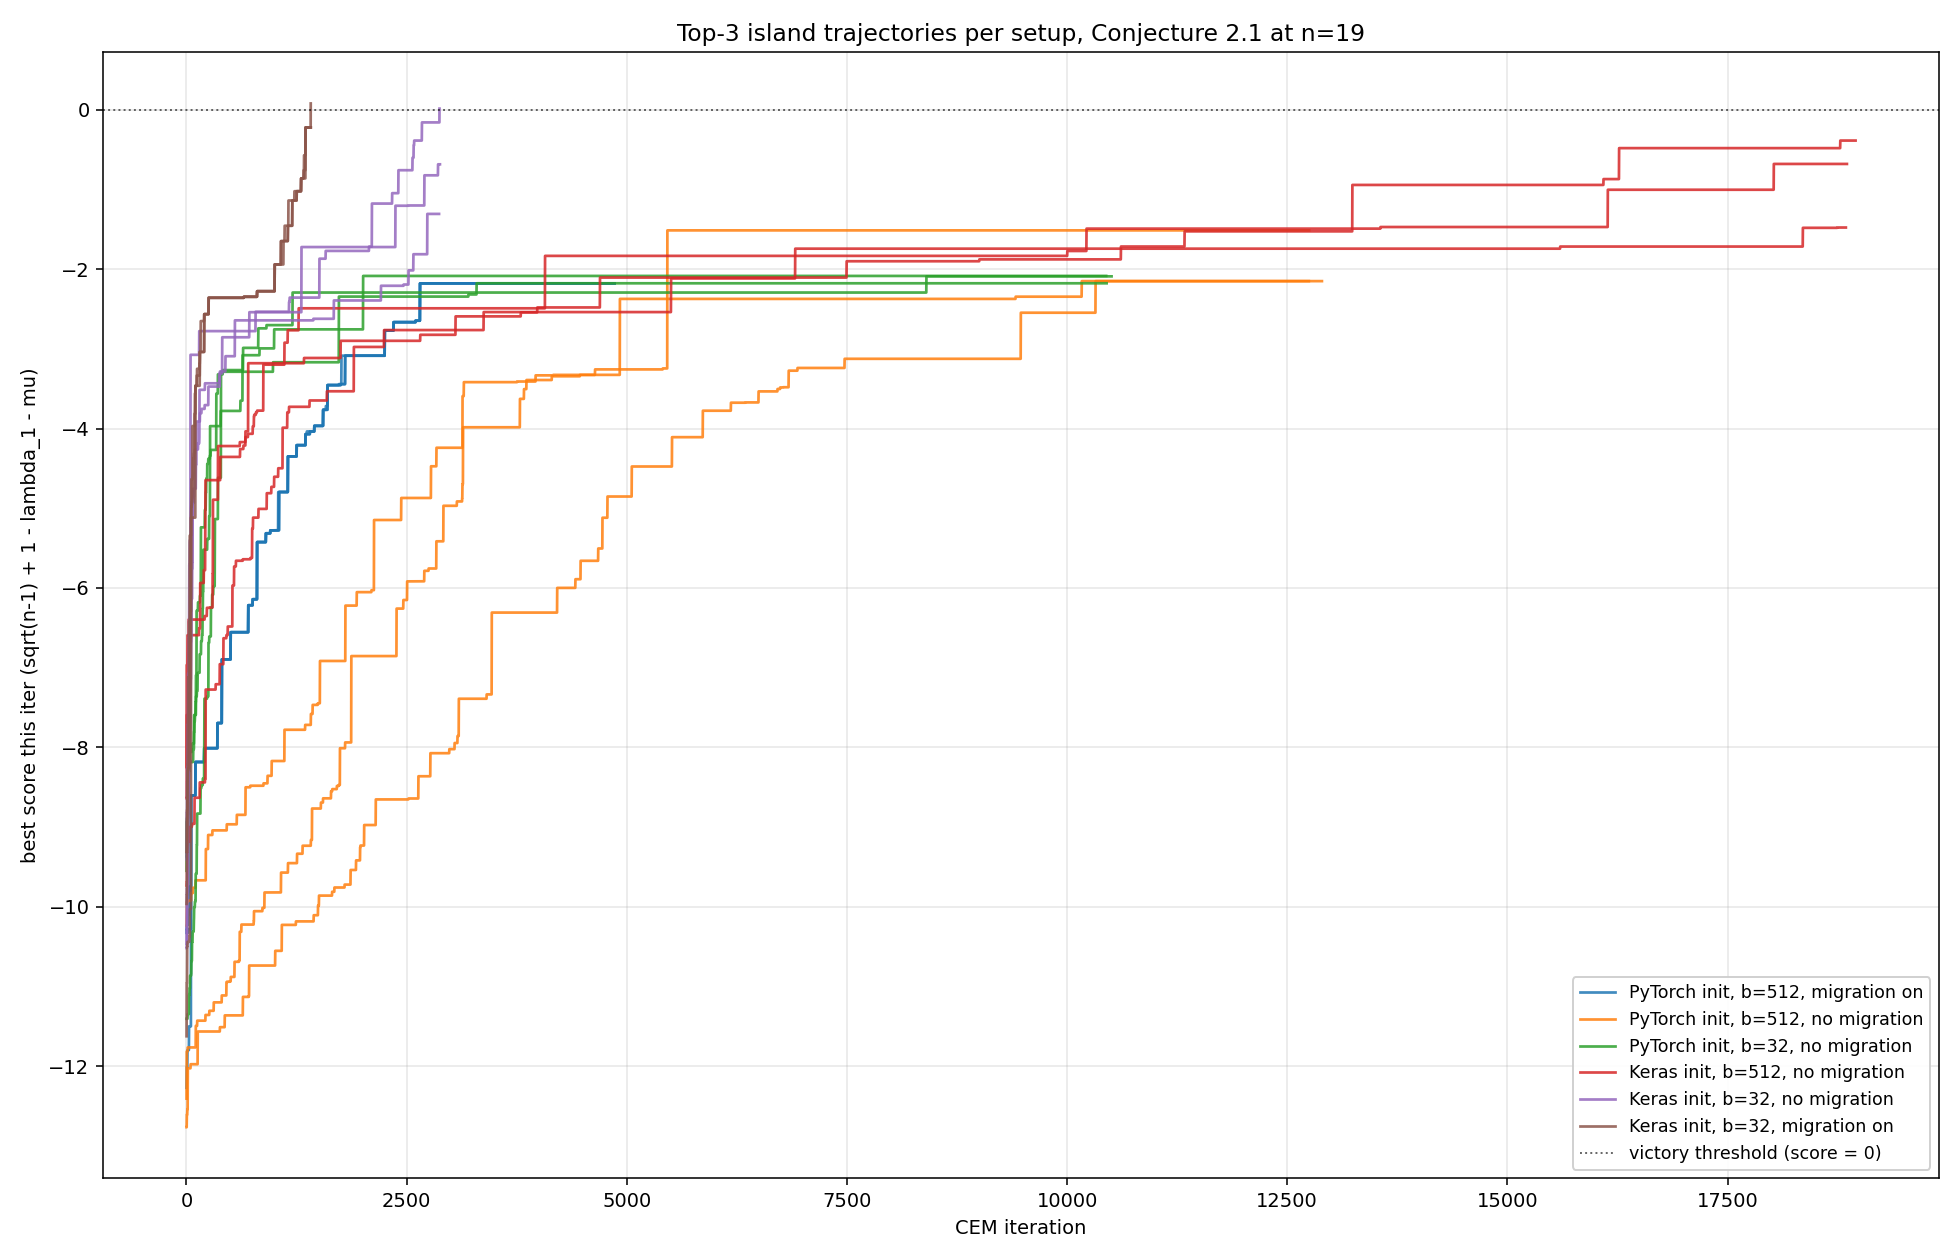
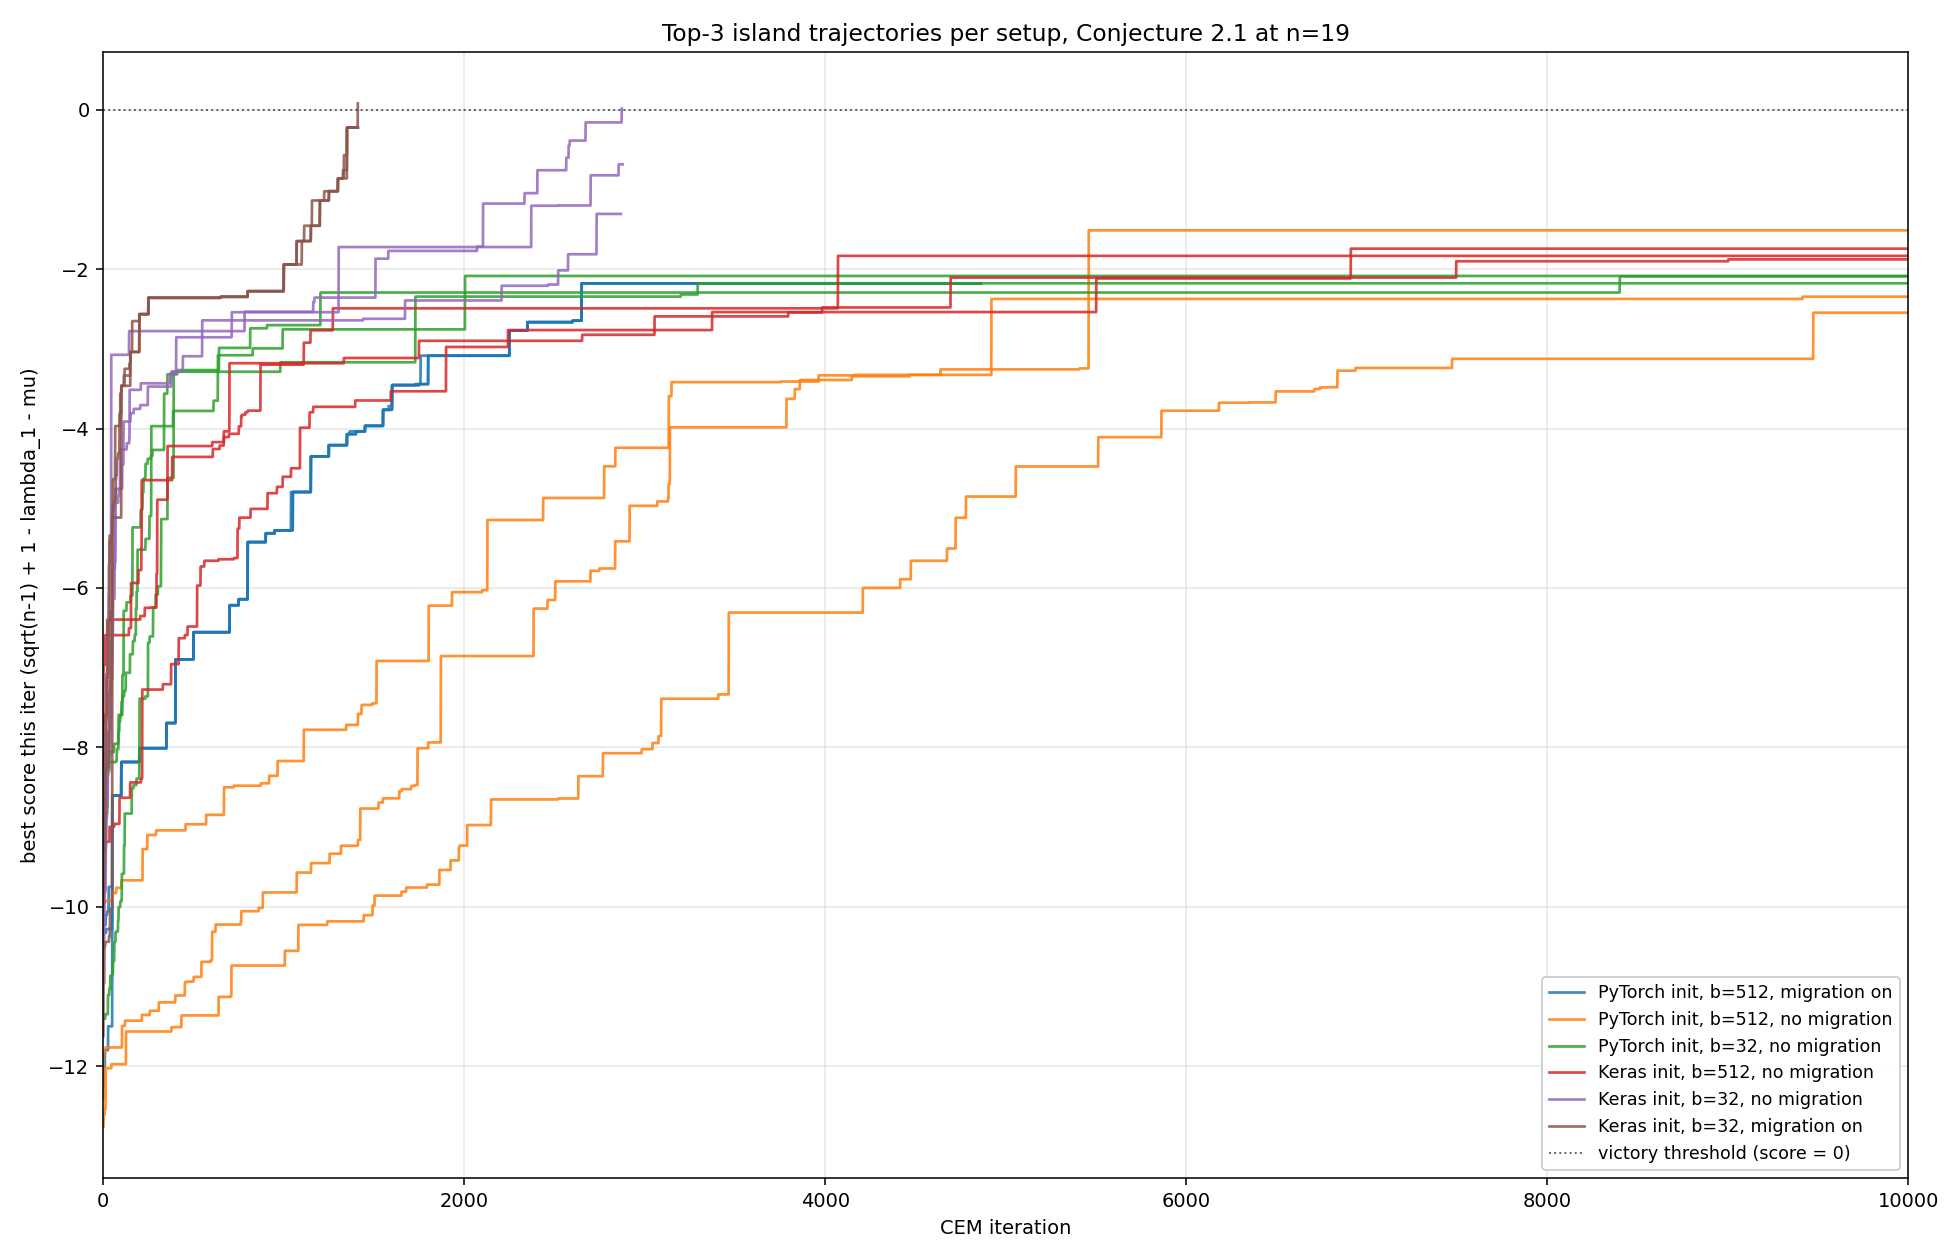
Cap trajectory plot at iter=10000 for legibility
The Keras-init / b=512 / no-migration ablation ran to iter ~19000 before
being killed, which stretched the plot's x-axis so far that the early
convergence dynamics of the other five setups were squashed together at
the left edge. Capping at 10000 covers every setup that finds a
counterexample (~2000–3000 iters) and most of the b=512 climb without
making the rest unreadable.

graph-ce-plot now defaults to --xlim 0,10000. Pass --xlim auto to recover
the previous full-range behaviour, or any explicit lo,hi to override.

diff --git a/src/graph_ce/plot_trajectories.py b/src/graph_ce/plot_trajectories.py
@@ -107,8 +107,9 @@ def parse_args(argv: list[str] | None = None) -> argparse.Namespace:
     p.add_argument(
         "--xlim",
         type=str,
-        default=None,
-        help="Optional x-axis limit 'lo,hi' (default: auto from data).",
+        default="0,10000",
+        help="X-axis limit 'lo,hi' (default: 0,10000 to keep early-iter dynamics "
+             "readable; pass 'auto' to scale to the full data range).",
     )
     p.add_argument(
         "--ylim",
@@ -188,7 +189,7 @@ def main(argv: list[str] | None = None) -> int:
         f"Top-{args.top_k} island trajectories per setup, Conjecture 2.1 at n=19"
     )
     ax.grid(True, alpha=0.3)
-    if args.xlim:
+    if args.xlim and args.xlim.lower() != "auto":
         lo, hi = (float(x) for x in args.xlim.split(","))
         ax.set_xlim(lo, hi)
     if args.ylim: